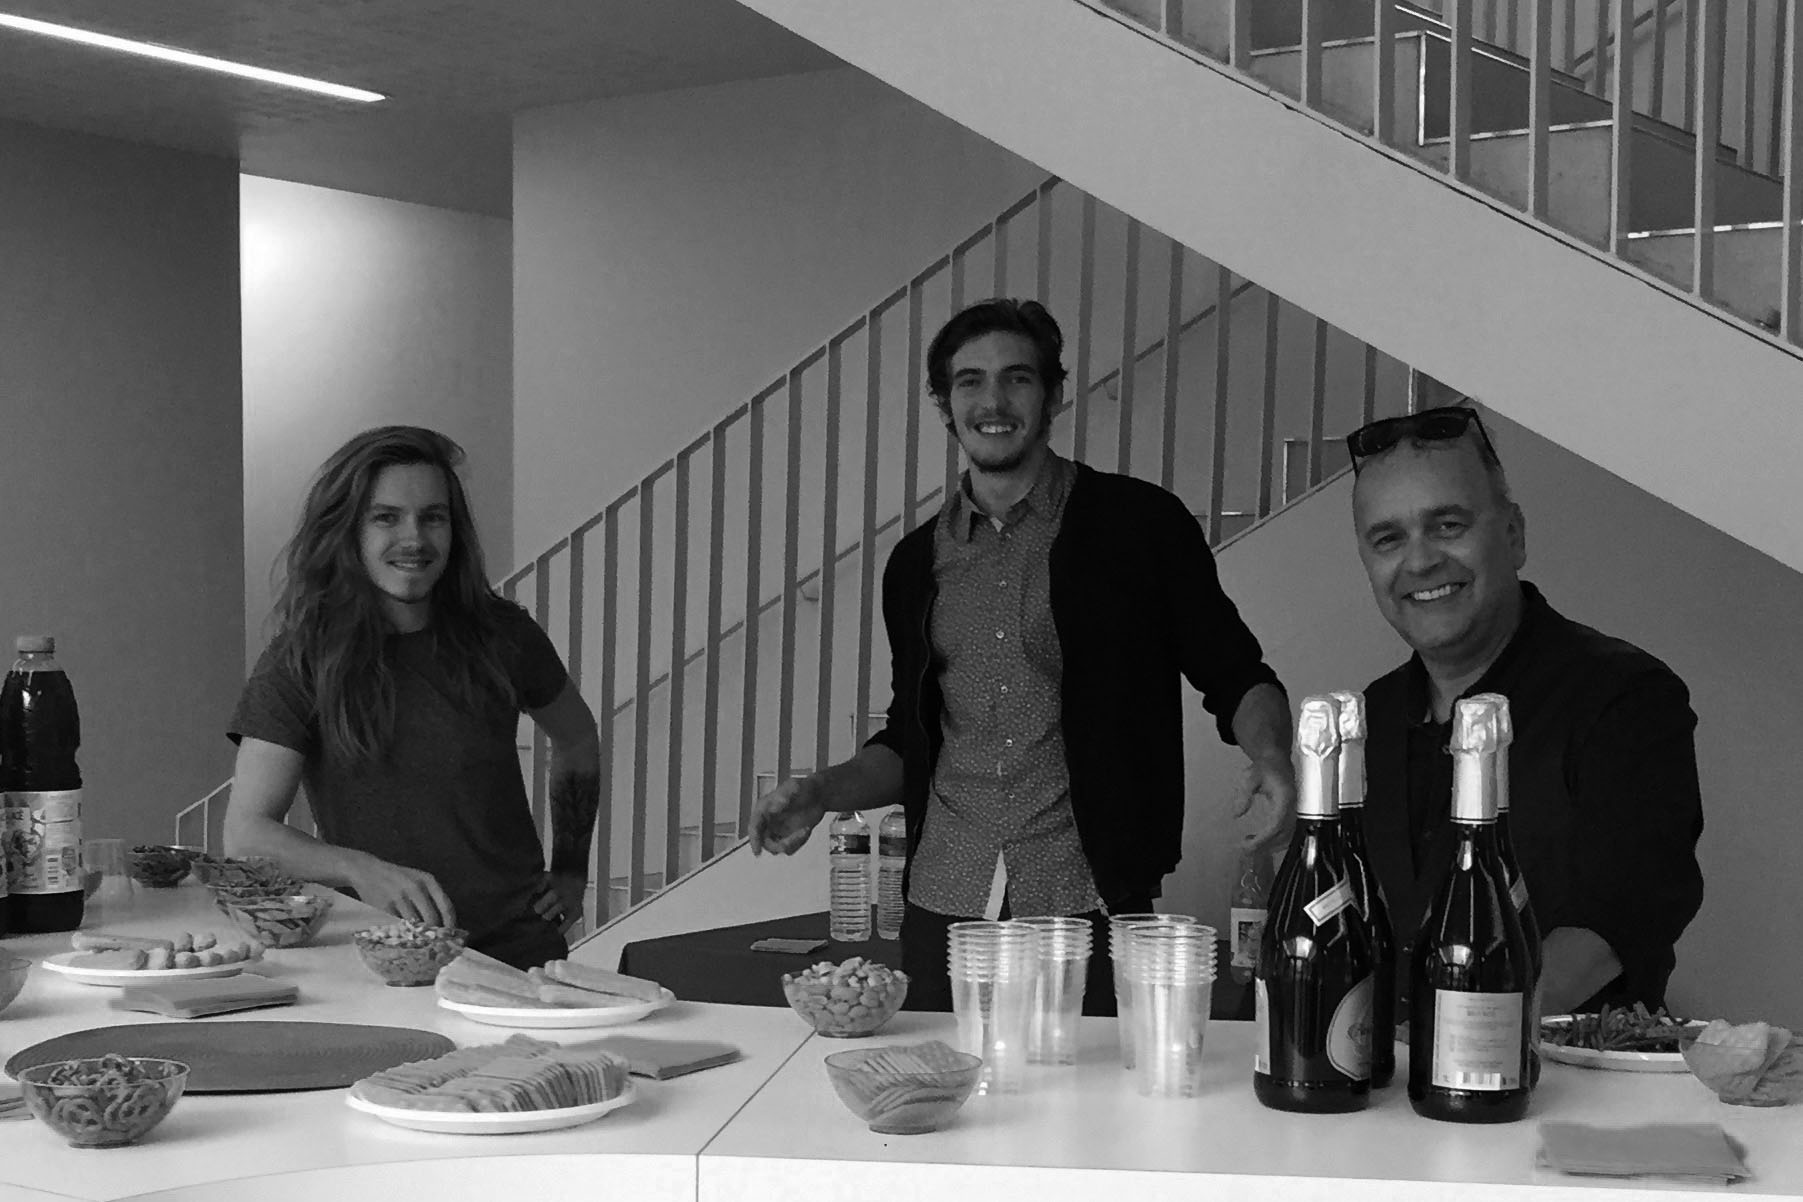
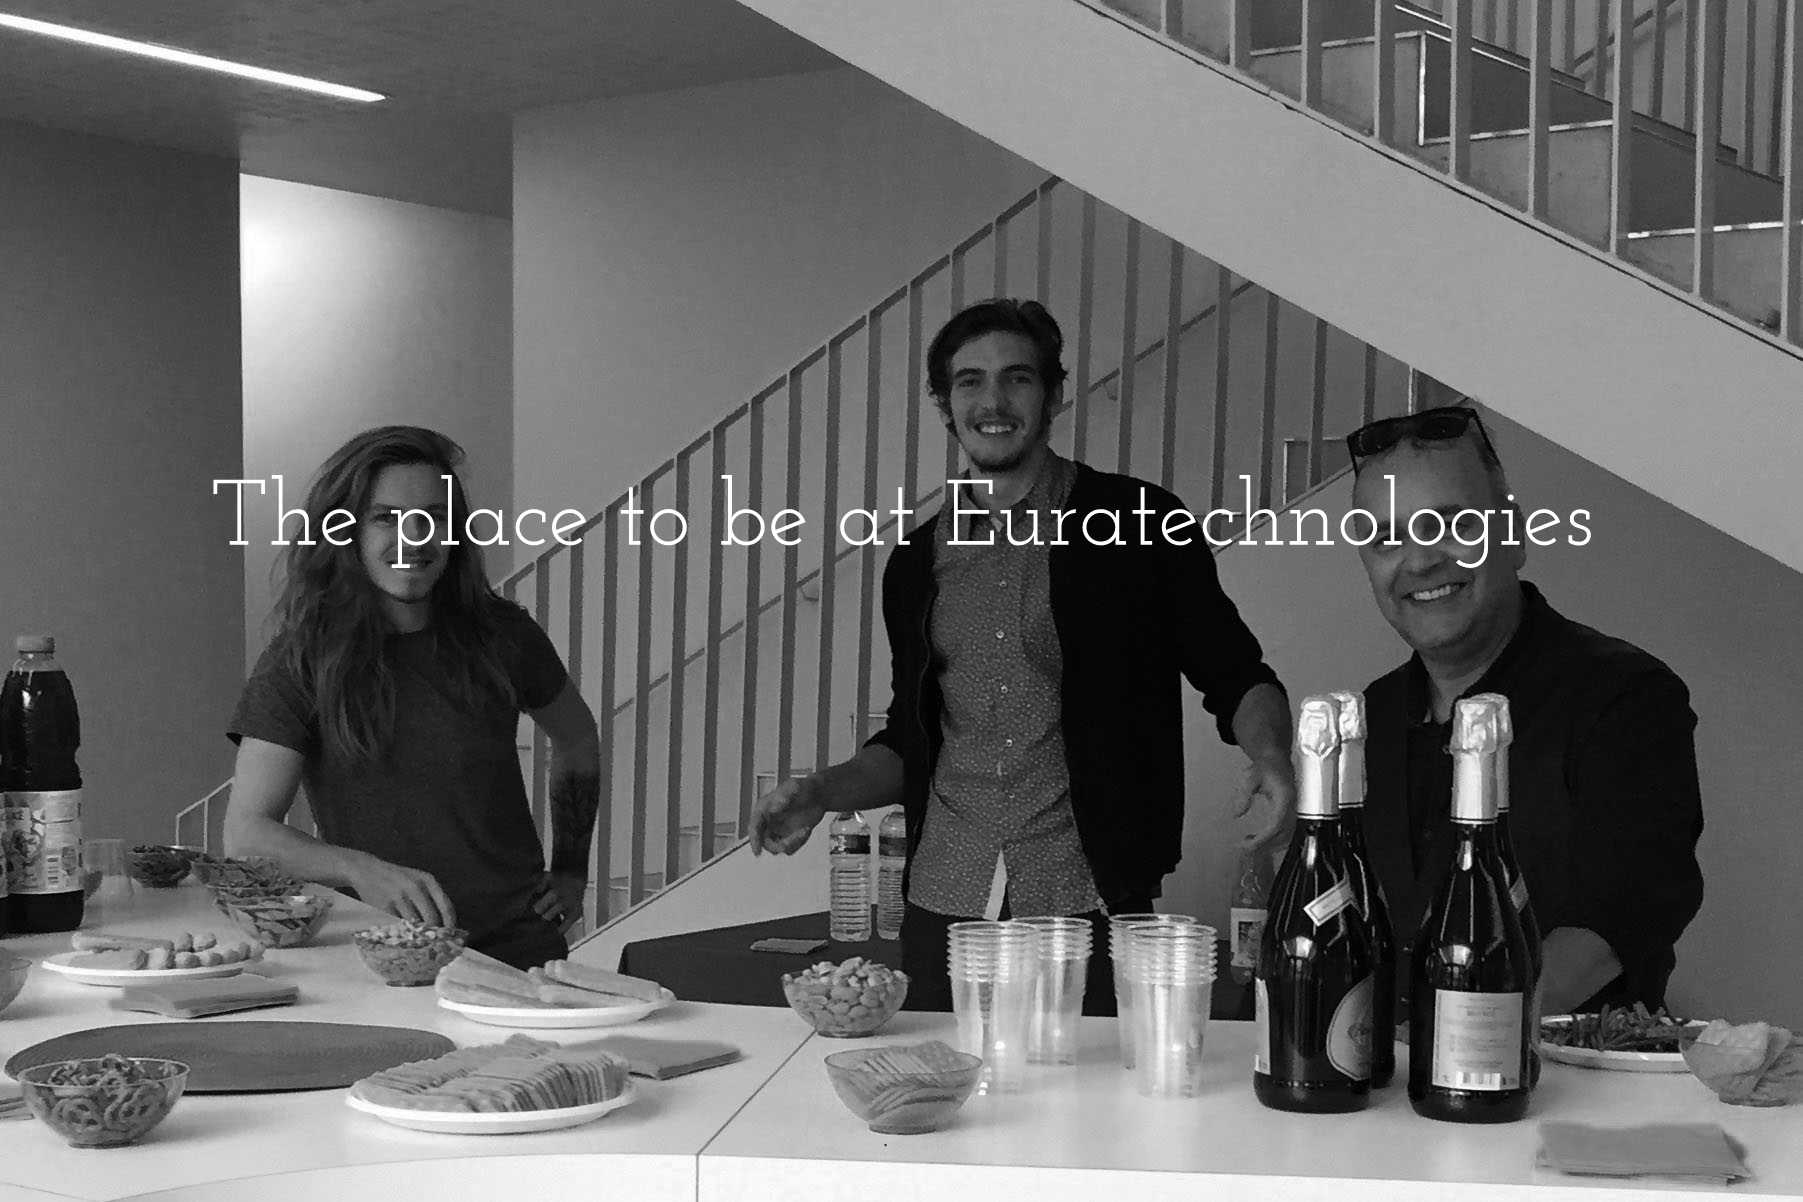
Video BG corrected

diff --git a/css/style.css b/css/style.css
@@ -572,7 +572,7 @@ td {
 }
 
 .imgContain {
-    background: url("../img/videobg.jpg") 0 0 no-repeat;
+    background: url("../img/videobgsm.jpg") 0 0 no-repeat;
     background-size: cover;
     height: 500px;
 }

diff --git a/home.php b/home.php
@@ -59,12 +59,11 @@ if ($_POST)
 ?>
 
 <div class="container-fluid no-margin videoContain hidden-xs visible-sm visible-md visible-lg">
-    <div class="col-lg-12"><h2>The place to be at Euratechnologies</h2></div>
     <div id="videoPlayer" class="player"
          data-property="{videoURL:'https://youtu.be/FeLrfTioYww',
          containment:'#videoPlayer',
          startAt:10,
-         mute:false,
+         mute:true,
          autoPlay:true,
          optimizeDisplay:true,
          loop:true,
